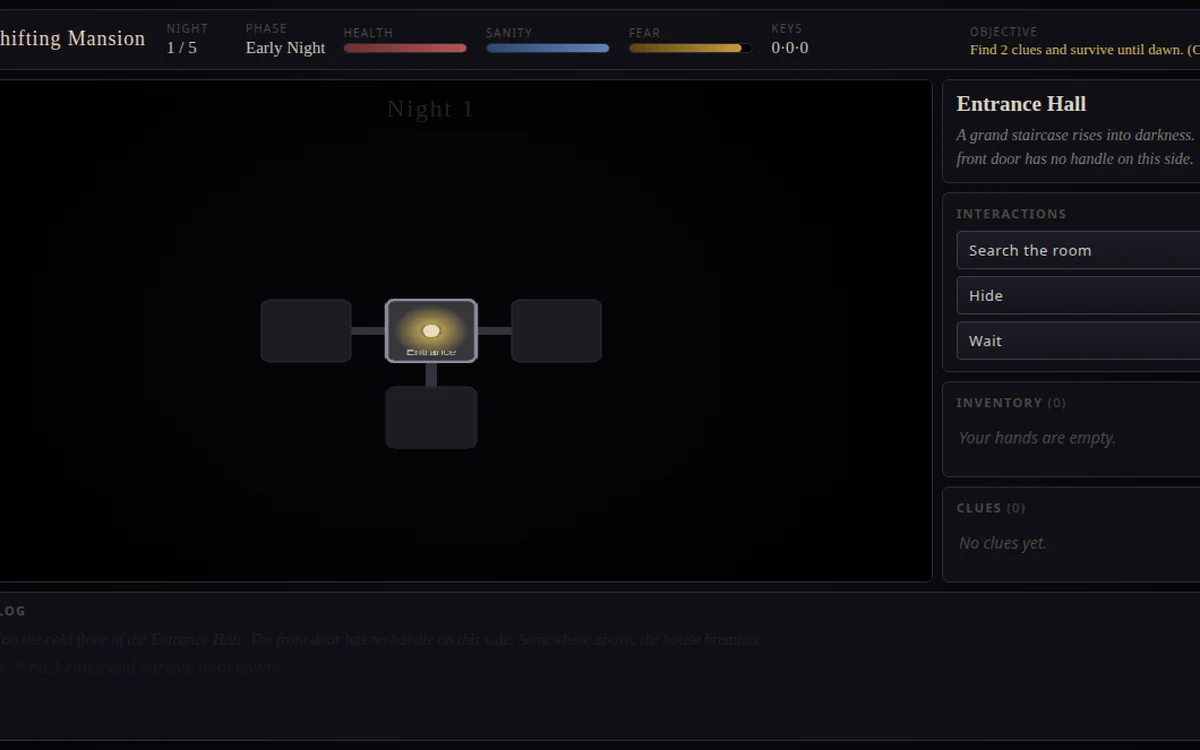
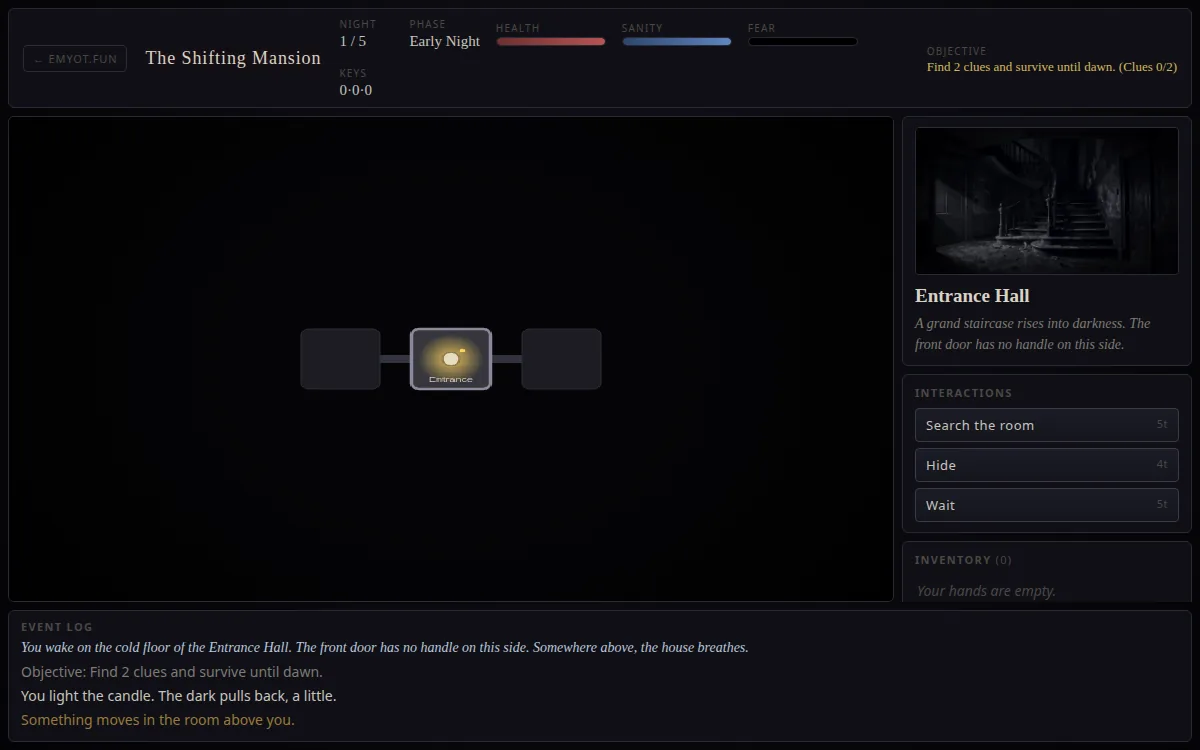
mansion: give every room a painting, and the menu a house
The Shifting Mansion carried its atmosphere entirely in prose — the canvas
shows an abstract map of grey boxes, so "the mirror is fogged though the air
is freezing" had nothing behind it. Each of the 22 room types now has a
painting in the side panel, and the house itself sits behind the title.

The art obeys the game's own rules rather than sitting on top of them:

  - a dark or pitch room with no lit candle dims the painting too, so a
    candle now genuinely shows you where you are
  - below the low-sanity threshold the colour drains out of it, alongside
    the fake room names and false whispers already in the game

Generated with Higgsfield z_image, then put through one fixed colour grade
so 23 separate generations read as a single set instead of 23 styles. 560x315
WebP, ~180 KB for the lot, preloaded on idle so room changes never wait.

The side panel now caps the painting and scrolls rather than starving the
inventory and clue lists; verified nothing clips at 1280x860, 1440x900,
1366x768 or 834x1112.

Coreloom gets none of this on purpose — it is a precision instrument and
illustration would be noise on it.

Also reshoots the home page thumbnail, which no longer matched the game.

diff --git a/site/shifting-mansion/style.css b/site/shifting-mansion/style.css
@@ -52,6 +52,17 @@ html, body {
 
 @keyframes fadeIn { from { opacity: 0; } to { opacity: 1; } }
 
+/* the house itself, behind the title — loaded only when the menu is shown */
+.screen--menu, .screen--end {
+  background-image:
+    radial-gradient(ellipse at 50% 45%, rgba(5,5,8,.30) 0%, rgba(4,4,6,.62) 48%, rgba(3,3,5,.92) 100%),
+    url("img/_mansion.webp");
+  background-size: cover, cover;
+  background-position: center, center 42%;
+}
+/* let the house show through the card instead of blanking it out */
+.screen--menu .menu-box, .screen--end .end-box { background: rgba(9,9,14,.72); }
+
 /* ---------- Buttons ----------------------------------------------- */
 .btn {
   font-family: var(--sans);
@@ -188,6 +199,7 @@ html, body {
   width: 290px;
   display: flex; flex-direction: column; gap: 8px;
   min-height: 0;
+  overflow-y: auto;
 }
 .panel-block {
   background: var(--bg-panel);
@@ -195,8 +207,27 @@ html, body {
   border-radius: 6px;
   padding: 10px 12px;
 }
-.panel-block--grow { flex: 1; min-height: 0; display: flex; flex-direction: column; overflow: hidden; }
+.panel-block--grow { flex: 1; min-height: 96px; display: flex; flex-direction: column; overflow: hidden; }
 .panel-h { font-size: 11px; text-transform: uppercase; letter-spacing: .12em; color: var(--ink-faint); margin-bottom: 8px; }
+/* one painting per room type, lit according to what you can actually see */
+.room-art {
+  display: block;
+  width: 100%;
+  aspect-ratio: 16 / 9;
+  /* capped so the painting never starves the inventory and clue lists
+     below it on a short window */
+  max-height: 148px;
+  object-fit: cover;
+  border: 1px solid var(--border);
+  border-radius: 4px;
+  margin-bottom: 10px;
+  transition: filter .6s ease;
+}
+.room-art[hidden] { display: none; }
+.room-art--unlit { filter: brightness(.34) contrast(.92); }
+.room-art--mad { filter: saturate(.35) contrast(1.18) hue-rotate(-14deg); }
+.room-art--unlit.room-art--mad { filter: brightness(.3) saturate(.35) contrast(1.1); }
+
 .room-name { font-family: var(--serif); font-size: 19px; color: #d9d2c4; margin-bottom: 6px; }
 .room-desc { color: var(--ink-dim); line-height: 1.5; font-style: italic; font-family: var(--serif); }
 .dim { color: var(--ink-faint); font-weight: normal; }

diff --git a/site/shifting-mansion/ui.js b/site/shifting-mansion/ui.js
@@ -84,12 +84,42 @@ const UI = (() => {
     $("room-desc").textContent = desc;
     $("room-name").style.color = room.type === "safe" ? "#7fa8e0"
       : room.cursed ? "#b79ad8" : room.type === "final" ? "#e0786a" : "";
+    setRoomArt(room, p, name);
 
     renderInteractions(g, room);
     renderInventory(g);
     renderClues(g);
     updateProximityFx(g);
     if (g.debug) updateDebug(g);
+  }
+
+  /* ---- room art --------------------------------------------------
+     One painting per room type in img/. The panel obeys the same
+     darkness rule the game does: an unlit dark room is barely visible
+     here either, so a candle actually shows you the room.
+     Any room type without a file just falls back to no image.        */
+  function setRoomArt(room, p, name) {
+    const img = $("room-art");
+    const src = "img/" + room.type + ".webp";
+    if (!img.getAttribute("src") || !img.getAttribute("src").endsWith(src)) {
+      img.onerror = () => { img.hidden = true; };
+      img.onload = () => { img.hidden = false; };
+      img.src = src;
+    }
+    img.alt = name;
+    const unlit = (room.light === "dark" || room.light === "pitch") && p.candleTurns <= 0;
+    img.classList.toggle("room-art--unlit", unlit);
+    img.classList.toggle("room-art--mad", p.sanity < CONFIG.SANITY_LOW);
+  }
+
+  /** Pull every room painting into cache once a run starts, so moving
+      between rooms never waits on the network. The whole set is ~180 KB. */
+  function preloadRoomArt() {
+    const load = () => {
+      for (const type in ROOM_TYPES) new Image().src = "img/" + type + ".webp";
+    };
+    if (window.requestIdleCallback) requestIdleCallback(load, { timeout: 4000 });
+    else setTimeout(load, 1500);
   }
 
   /* ---- interaction buttons -------------------------------------- */
@@ -285,6 +315,6 @@ const UI = (() => {
   return {
     showScreen, log, renderLog, refresh, showNote, hideNote,
     showTransition, flashDamage, shake, phaseHint,
-    updateDebug, toggleDebug,
+    updateDebug, toggleDebug, preloadRoomArt,
   };
 })();

diff --git a/site/shifting-mansion/index.html b/site/shifting-mansion/index.html
@@ -126,6 +126,7 @@
 
       <aside id="right-panel">
         <div class="panel-block">
+          <img id="room-art" class="room-art" alt="" hidden>
           <h3 id="room-name" class="room-name">&mdash;</h3>
           <p id="room-desc" class="room-desc">&mdash;</p>
         </div>

diff --git a/site/shifting-mansion/main.js b/site/shifting-mansion/main.js
@@ -57,6 +57,7 @@ function init() {
   bindGameInput();
   refreshContinueButton();
   UI.showScreen("menu");
+  UI.preloadRoomArt();
   startRenderLoop();
 }
 

diff --git a/site/shifting-mansion/README.md b/site/shifting-mansion/README.md
@@ -49,7 +49,11 @@ red-tinted doors are locked, the salt-blue room is the Safe Room.
   always reachable, and locks only ever sit on spanning-tree leaves.
 - **Nightly rearrangement** (5 nights): new layout, doors, items and entity
   spawn each night, while clues, story progress and carried items persist.
-- **21 room types** with multiple descriptions each, light levels and curses.
+- **22 room types** with multiple descriptions each, light levels and curses.
+- **A painting for every room type**, shown in the side panel. It obeys the
+  game's own darkness rule: in an unlit dark room the painting is dimmed too, so
+  lighting a candle genuinely shows you where you are — and at low sanity the
+  colour drains out of it along with everything else.
 - **Turn-based loop**: every action advances time through four night phases
   (Early Night → Midnight → Witching Hour → Dawn).
 - **Stalking entity** with 5 states (dormant/wandering/hunting/chasing/
@@ -85,7 +89,13 @@ render.js        canvas rendering (map, fog, player, entity)
 ui.js           DOM panels, log, overlays, screens
 save.js         localStorage save/load (degrades gracefully)
 main.js         GameState, input, turn pipeline, nights, endings, debug
+img/            one painting per room type + the exterior behind the menu
 ```
+
+The paintings are AI-generated (Higgsfield `z_image`), then put through one
+fixed colour grade so 23 separate generations read as a single set. They are
+560×315 WebP, about 180 KB for the lot, and the whole set is pulled into cache
+when the menu opens so moving between rooms never waits on the network.
 
 ## Possible future improvements
 
